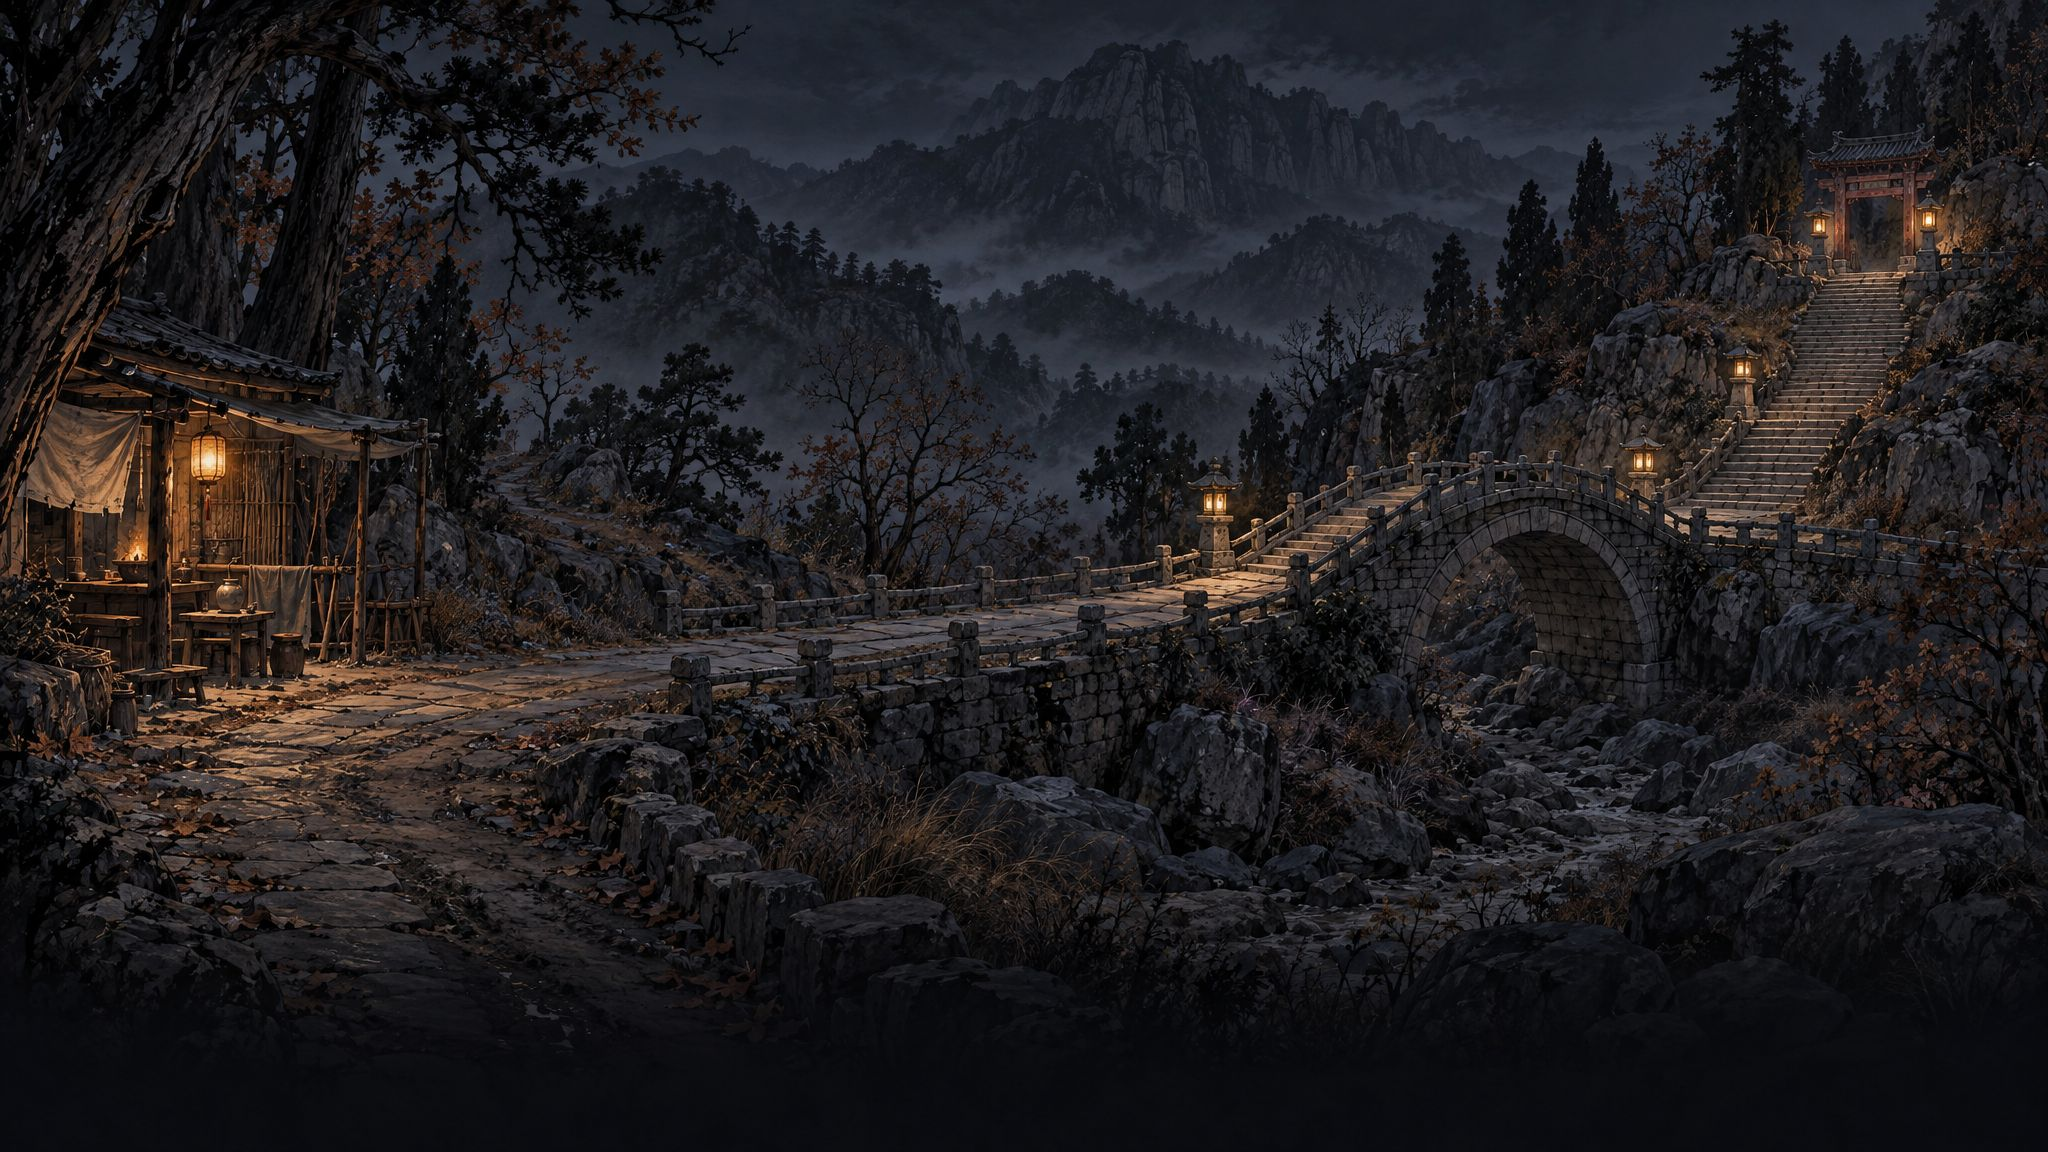
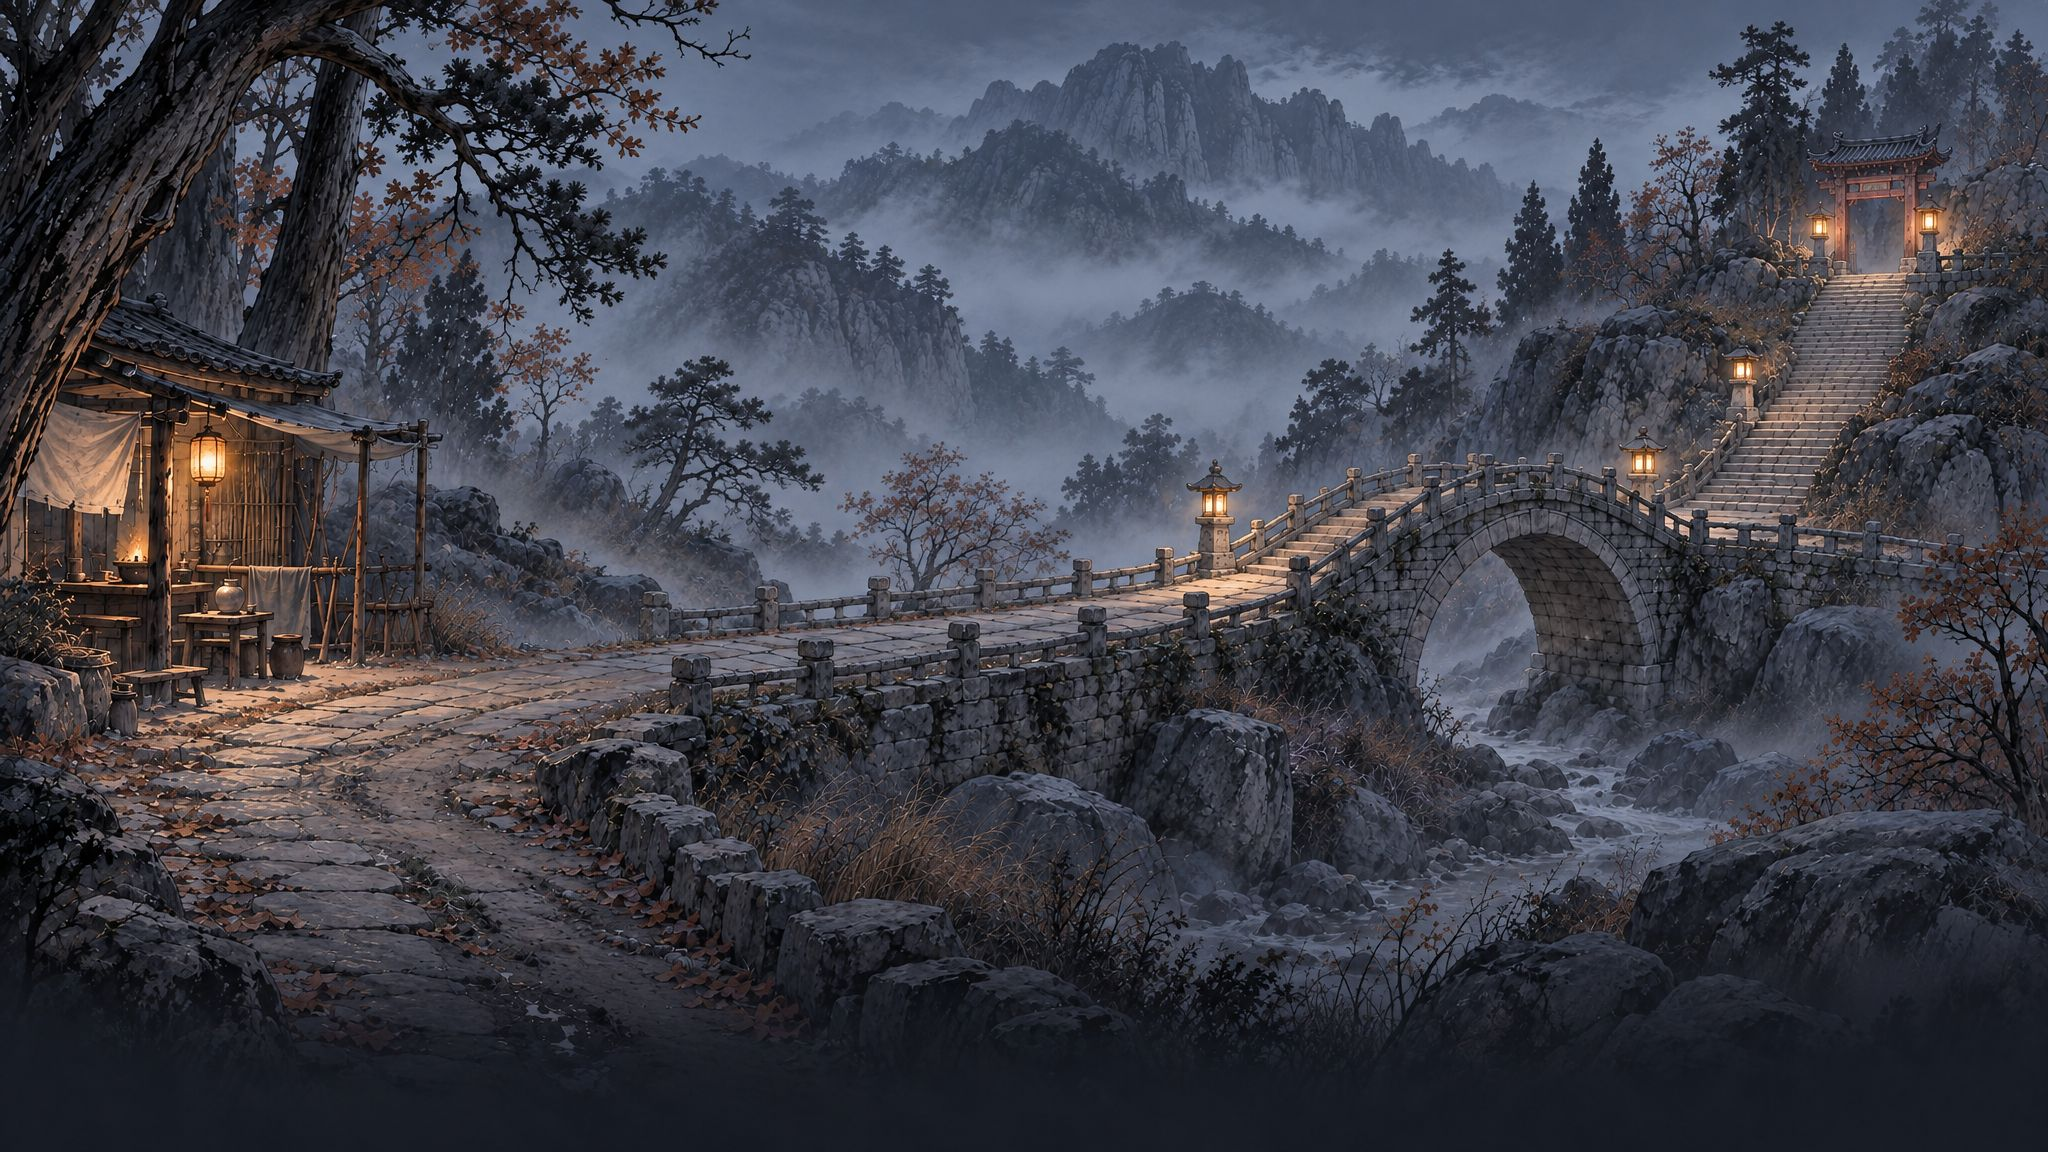
style(living-jianghu): 卷一至卷三据点场景提亮为月夜灰蓝，与舆图同调

diff --git a/DESIGN.md b/DESIGN.md
@@ -398,7 +398,7 @@ components:
 ### 江湖舆图与地域分图（战斗页第一、二层）
 - 第一层：整张 AI 水墨舆图 16:9，按宽铺满侧栏右侧整个舞台（不受版心限制），四边线性羽化融进夜底，不加框；标题在图上方。十卷标在地理位置上：圆点 + 卷名（宋体 17px）+ 「卷N · 卷题」小字；走过的卷墨金点、这一世所在的卷暖金点外发光、未开的墨浅，悬停说明怎么开。**不画连卷的驿路线**（卷序与地理不顺，连线会交叉）。
 - 点当前卷：整张图以该卷为中心放大 3 倍（0.9s ease-quart），卷名隐去；动画走完后淡入一张**地域分图**（同一块地图图生图、据点直接画在地里），盖住拉糊的舆图。左上「← 江湖舆图」返回。
-- 据点是分图上的一块热区（约 13% × 21%），下挂名字（宋体 15px）与一行「正 / 邪印 · 势力 · 进度」：未开的被云雾遮住、墨浅名；在打的有一圈轻轻呼吸的烛光（`mix-blend-mode: screen`）、暖金名，下挂「已过 / 总关数」；已通关的墨金名，只写势力不写进度，不落印；没开打的写「N 关」。悬停未开的据点说「先通关某某」。名字下垫一团墨晕，浅色地图上也认得清。舆图与分图取月夜灰蓝、多留白、少树木田埂的画法（2026-10-26 用户定），不用浓黑满铺。
+- 据点是分图上的一块热区（约 13% × 21%），下挂名字（宋体 15px）与一行「正 / 邪印 · 势力 · 进度」：未开的被云雾遮住、墨浅名；在打的有一圈轻轻呼吸的烛光（`mix-blend-mode: screen`）、暖金名，下挂「已过 / 总关数」；已通关的墨金名，只写势力不写进度，不落印；没开打的写「N 关」。悬停未开的据点说「先通关某某」。名字下垫一团墨晕，浅色地图上也认得清。舆图、分图与据点场景都取月夜灰蓝、多留白、少树木田埂的画法（2026-10-26 用户定），不用浓黑满铺；深色外壳只作画框，各页底图仍以半透明压暗铺底，不跟着提亮。
 
 ### 据点战斗页（场景关卡）
 - 上半是该据点的整幅场景图（16:9，底部渐隐），一条路由近及远穿过画面；标题、归属（正 / 邪印 · 势力 · 外围 / 门户）与「已过 N / 20 关」叠在左上的暗处。玩家可见文案不用「资源点」，写「外围」。

diff --git a/changelog.d/feature-living-jianghu-battle-ui.md b/changelog.d/feature-living-jianghu-battle-ui.md
@@ -1,7 +1,7 @@
 ### 变更
 
 - **战斗页改为三层**：
-  - **江湖舆图**：一张水墨舆图，十卷标在地理位置上。走过的卷墨金，这一世所在的卷暖金发光，未开的卷墨浅，悬停可见开启条件。
+  - **江湖舆图**：一张水墨舆图，按宽铺满舞台、四边羽化，十卷标在地理位置上。走过的卷墨金，这一世所在的卷暖金发光，未开的卷墨浅，悬停可见开启条件。
   - **地域分图**：点开一卷，整张图放大三倍，淡入这片地域的分图，各家据点直接画在地里。未开的据点盖着云雾，悬停写「先通关某某」；在打的有烛光，下挂「已过 / 总关数」；通关的只写名字和势力。舆图与分图都是月夜灰蓝、多留白的画法。
   - **据点场景**：点进据点就是这处据点的整幅画面，关卡点落在画里的路上，沿路等距排开。已过的关打钩；眼前几关立着护院剪影；副手、镇守、门主是圆形头像，挂「副 / 守 / 主」竖印，悬停可见第几任；远处的关收成一组。
   - 原来的卷切换、站点条和数字关卡按钮都已移除。
@@ -14,6 +14,6 @@
 ### 新增
 
 - **卷一至卷三美术**：
-  - 江湖舆图按新画法重绘；齐鲁、两淮、江南三张地域分图（江南按新画法重绘），17 处据点场景；
+  - 江湖舆图按新画法重绘；齐鲁、两淮、江南三张地域分图（江南按新画法重绘），17 处据点场景（都是月夜灰蓝画法，与舆图同一色调）；
   - 19 张守关头像、10 张长卷像。
   - 卷四起暂时用放大的舆图和墨线小路代替，之后按卷补图。
